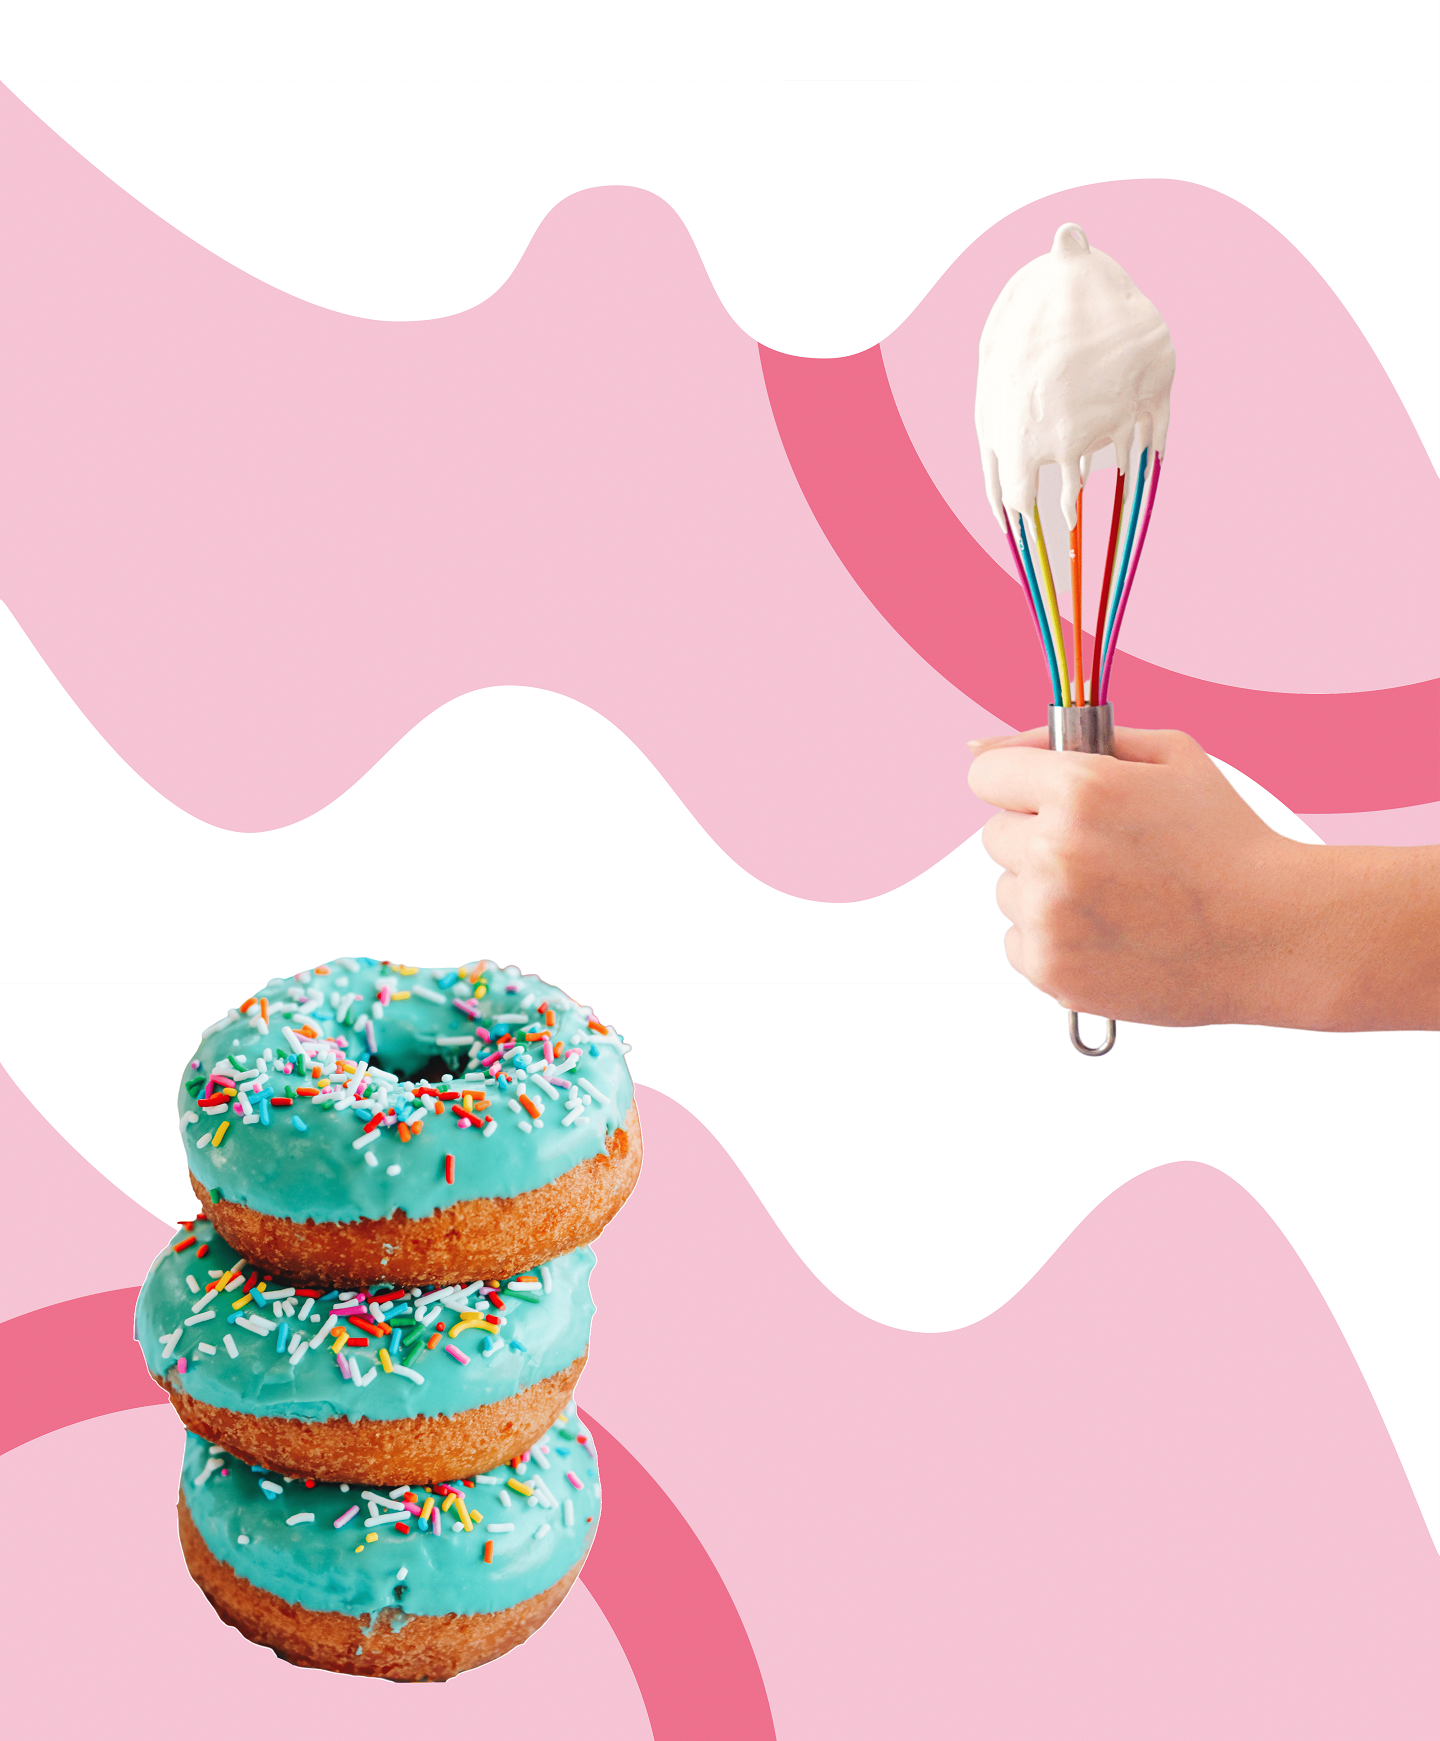
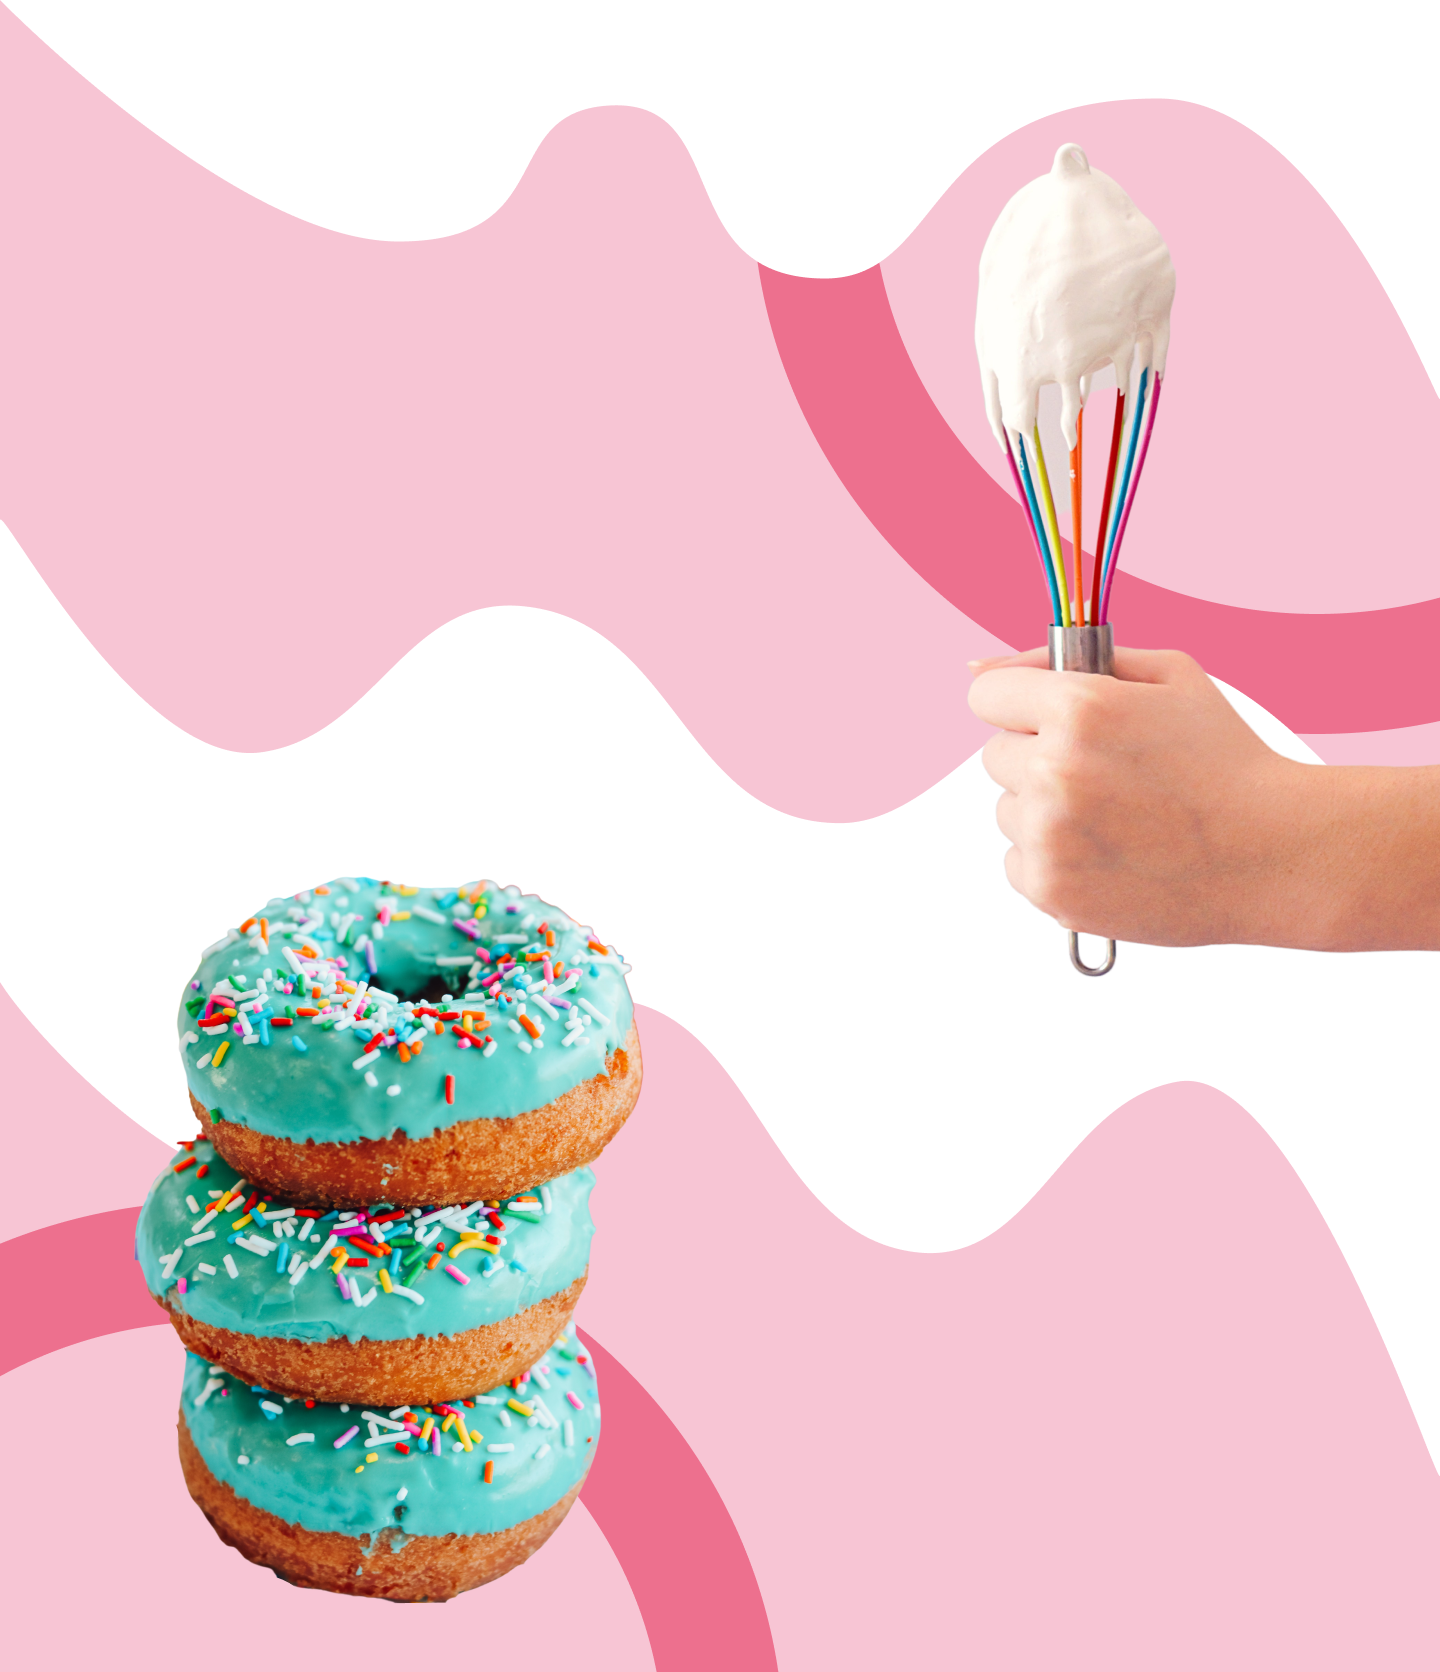
Adding responsivity

diff --git a/src/views/Sobre/styles.module.css b/src/views/Sobre/styles.module.css
@@ -1,11 +1,30 @@
 .app {
     background-image: url('/public/assets/1440/fundo-sobre.png');
     background-repeat: no-repeat;
-    height: 190vh;
+    height: 1741px;
 }
 
 @media only screen and (max-width: 1920px) {
     .app {
         background-image: url('/public/assets/1920/fundo-sobre.png');
+        background-repeat: no-repeat;
+        height: 1730px;
+    }
+}
+
+@media only screen and (max-width: 1600px) {
+    .app {
+        background-image: url('/public/assets/1600/fundo-sobre.png');
+        background-repeat: no-repeat;
+        height: 1672px;
+    }
+}
+
+@media only screen and (max-width: 800px) {
+    .app {
+        background-image: url('/public/assets/800/fundo-sobre.png');
+        background-repeat: no-repeat;
+        background-position: center 80px;
+        height: 1352px;
     }
 }

diff --git a/src/views/Galeria/styles.module.css b/src/views/Galeria/styles.module.css
@@ -1,6 +1,24 @@
 .App {
-    background-image: url('/public/assets/1440/fundo-galeria.png');
+  background-image: url('/public/assets/1440/fundo-galeria.png');
+  background-repeat: no-repeat;
+  background-position: top -80px;
+  height: 1770px;
+}
+
+@media only screen and (max-width: 1920px) {
+  .App {
+    background-image: url('/public/assets/1920/fundo-galeria.png');
     background-repeat: no-repeat;
-    background-position: top -80px;
-    height: 1770px;
+    background-position: center 80px;
+    height: 1610px;
   }
+}
+
+@media only screen and (max-width: 800px) {
+  .App {
+    background-image: url('/public/assets/800/fundo-galeria.png');
+    background-repeat: no-repeat;
+    background-position: center 80px;
+    height: 1410px;
+  }
+}

diff --git a/src/Components/MainSobre/styles.module.css b/src/Components/MainSobre/styles.module.css
@@ -41,3 +41,37 @@
     margin-top: 50%;
     margin-left: 100%;
 }
+
+@media only screen and (max-width: 1920px) {
+    .container {
+        top: 9%;
+        left: -5%;
+    }
+
+    .text2 {
+        margin-top: 500px;
+        margin-left: 110%;
+    }
+}
+
+@media only screen and (max-width: 800px) {
+    .text {
+        font-size: 12px;
+        width: 300px;
+    }
+
+    .title {
+        margin-top: 50px;
+    }
+
+    .text {
+        margin-top: 70px;
+    }
+
+    .text2 {
+        font-size: 12px;
+        width: 300px;
+        margin-top: 55%;
+        left: 7%;
+    }
+}

diff --git a/src/views/Home/index.js b/src/views/Home/index.js
@@ -3,6 +3,7 @@ import Header from '../../Components/Header';
 import Banner from '../../Components/BannerHome';
 import Main from '../../Components/MainHome'
 import CarouselComponent from '../../Components/CarouselHome';
+import Footer from '../../Components/Footer'
 import styles from './styles.module.css'
 
 export const Home = () => {
@@ -12,6 +13,7 @@ export const Home = () => {
             <Banner />
             <Main />
             <CarouselComponent />
+            {/* <Footer /> */}
         </div>
     )
 }

diff --git a/src/Components/GaleriaImagens/styles.module.css b/src/Components/GaleriaImagens/styles.module.css
@@ -19,4 +19,24 @@
     margin-top: 40px;
 }
 
+@media only screen and (max-width: 1920px) {
+    .galeria {
+        margin-top: 9%;
+    }
+}
 
+@media only screen and (max-width: 800px) {
+    .galeria {
+        grid-template-columns: 230px 230px 230px;
+        column-gap: 50px;
+        margin-top: 30%;
+    }
+
+    .galeria img {
+        width: 200px;
+    }
+
+    .imagem h3 {
+        font-size: 24px;
+    }
+}

diff --git a/src/views/Franqueado/index.js b/src/views/Franqueado/index.js
@@ -1,8 +1,13 @@
 import React from "react"
+import styles from './styles.module.css'
 import Header from '../../Components/Header';
+import Formulario from "../../Components/Formulario";
 
 export const Franqueado = () => {
     return (
-        <Header />
+        <div className={styles.App}>
+            <Header />
+            <Formulario />
+        </div>
     )
 } 

diff --git a/src/Components/BannerHome/styles.module.css b/src/Components/BannerHome/styles.module.css
@@ -60,6 +60,13 @@
     margin-left: 10px;
 }
 
+@media only screen and (max-width: 1920px) {
+    .container {
+        height: 120vh;
+        left: 38%;
+    }
+  }
+
 @media only screen and (max-width: 1600px) {
     .container {
         height: 140vh;

diff --git a/src/Components/Formulario/index.js b/src/Components/Formulario/index.js
@@ -1,0 +1,12 @@
+import styles from "./styles.module.css";
+
+const Formulario = () => {
+  return (
+    <div className={styles.container}>
+      <div className={styles.form}>
+      </div>
+    </div>
+  );
+};
+
+export default Formulario;

diff --git a/src/Components/CarouselHome/styles.module.css b/src/Components/CarouselHome/styles.module.css
@@ -20,11 +20,8 @@
 
 @media only screen and (max-width: 1920px) {
     .container {
-        margin-top: 20%;
-    }
-
-    .title {
-        margin-bottom: 5%;
+        max-height: max-content;
+        margin-top: 30%;
     }
   }
 

diff --git a/src/views/Home/styles.module.css b/src/views/Home/styles.module.css
@@ -10,7 +10,7 @@
     background-image: url("/public/assets/1920/fundo-home.png");
     background-repeat: no-repeat;
     background-position: center 80px;
-    height: 270vh;
+    height: 2800px;
   }
 }
 

diff --git a/src/views/Franqueado/styles.module.css b/src/views/Franqueado/styles.module.css
@@ -1,0 +1,6 @@
+.App {
+    background-image: url('/public/assets/1440/fundo-franqueado.png');
+    background-repeat: no-repeat;
+    background-position: center 80px;
+    height: 942px;
+  }

diff --git a/src/Components/BannerGaleria/styles.module.css b/src/Components/BannerGaleria/styles.module.css
@@ -5,3 +5,9 @@
     font-size: 64px;
     color: #ffffff;
 }
+
+@media only screen and (max-width: 800px) {
+    .title {
+        font-size: 36px;
+    }
+}
